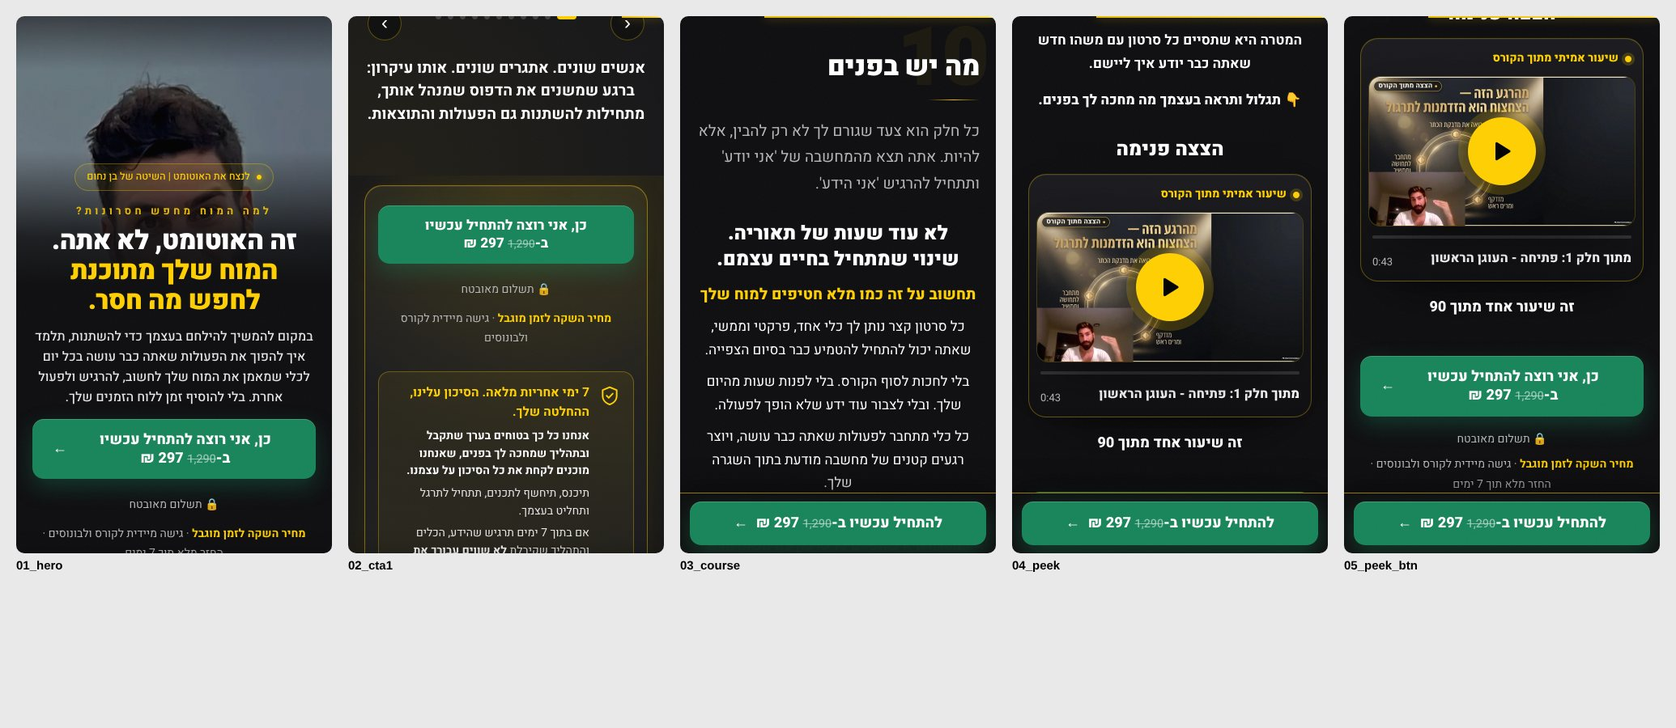
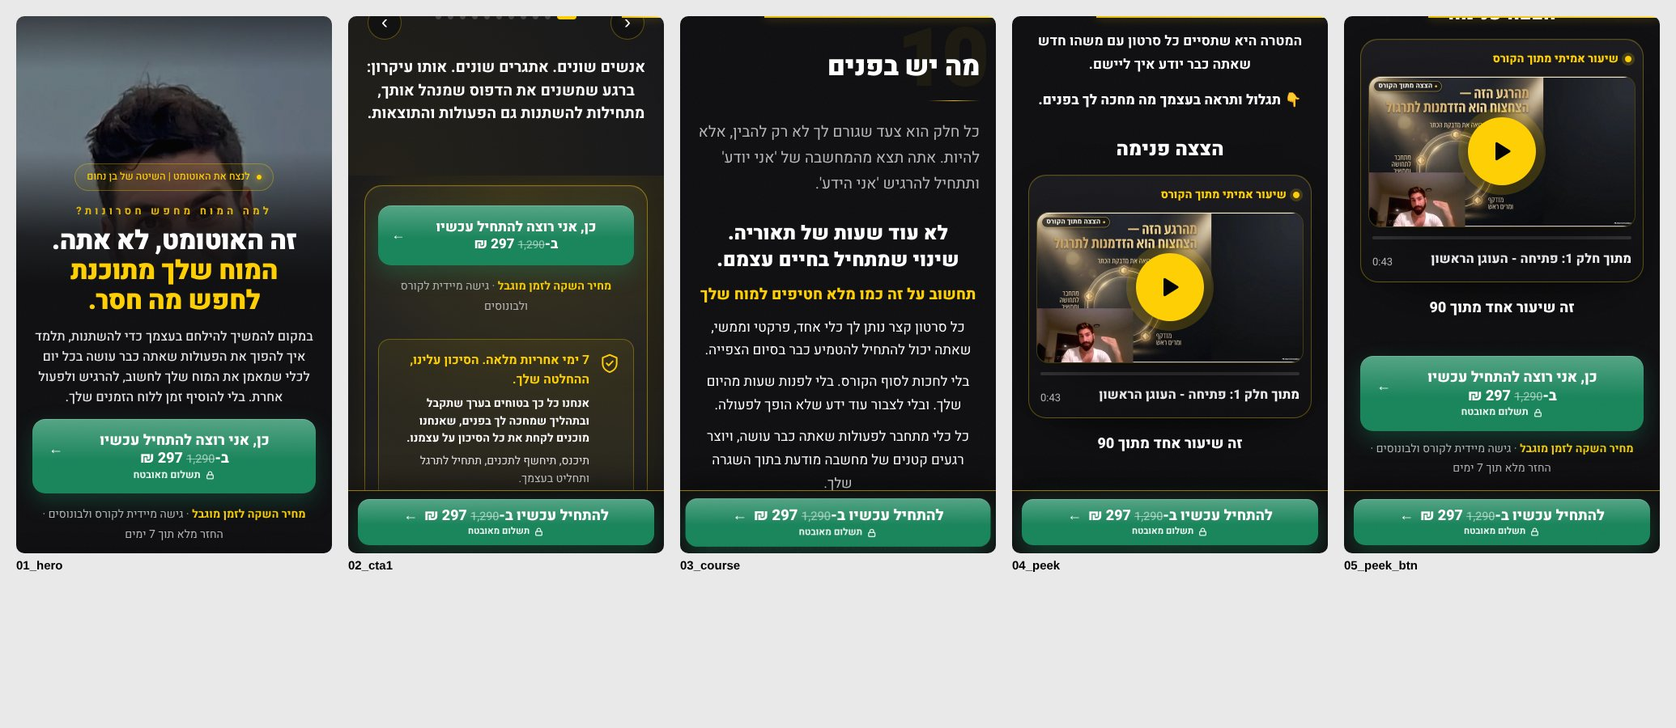
ב85 לפי אישור בן 09:49: a5v6 = a5v4 + ע21 במקום הקיים + כפתורים ירוקים עם רטט כל 2.5 ש' וברק, צמוד לאורך הגלילה; 26/26, CLS 0 - מקומי
Claude-Session: https://claude.ai/code/session_01AWaDsUUa9CSR7XwcRd86aw

diff --git a/claude/b68/s15/t_v6.js b/claude/b68/s15/t_v6.js
@@ -1,4 +1,5 @@
-// ב85: בדיקות a5v6 מול a5v4. שימוש: node t_v6.js http://127.0.0.1:8791/nlp/ [go.html המקומי של main]
+// ב85 (אישור בן 09:49): בדיקות a5v6 מול a5v4. a5v6 = a5v4 + (1) ע21 בין 👇 לבין "הצצה פנימה" (2) כפתורים ירוקים, רטט כל 2.5 ש', ברק, צמוד לאורך הגלילה.
+// שימוש: node t_v6.js http://127.0.0.1:8791/nlp/ [go.html]   (a5v6s = אותה בנייה עם קובץ סיור לבדיקה)
 const {chromium,devices}=require('playwright');const fs=require('fs');const B=process.argv[2],GO=process.argv[3];
 const res=[];const ok=(n,c,e="")=>{res.push(!!c);console.log((c?"PASS ":"FAIL ")+n+(c?"":" "+String(e).slice(0,700)))};
 async function ctx(b,opt={}){const c=await b.newContext({...devices["iPhone 13"],...opt});const ev=[];
@@ -8,58 +9,63 @@ const words=p=>p.evaluate(()=>{const out=[];const w=document.createTreeWalker(do
 const cnt=a=>a.reduce((m,x)=>(m[x]=(m[x]||0)+1,m),{});
 const snap=p=>p.evaluate(()=>({order:[...document.querySelectorAll("header[data-sec],section")].filter(s=>!s.closest(".sp-modal")).map(s=>(s.dataset.name||s.className)+"|"+(s.dataset.stage||"")),
  media:[...document.querySelectorAll("img,video,source")].map(e=>e.getAttribute("src")||e.getAttribute("data-v4src")||e.getAttribute("srcset")||e.getAttribute("poster")||"").filter(Boolean).sort(),
- ctas:[...document.querySelectorAll("a.cta")].map(a=>[a.dataset.cta,(a.getAttribute("href")||"").replace(/a5v[46]/g,"PAGE").replace(/sid=[^&]*/,"sid="),a.hasAttribute("data-checkout")].join("|")),
+ ctas:[...document.querySelectorAll("a.cta")].map(a=>[a.dataset.cta,(a.getAttribute("href")||"").replace(/a5v[46]/g,"PAGE").replace(/sid=[^&]*/,"sid="),a.hasAttribute("data-checkout"),a.innerHTML.replace(/<svg[\s\S]*?<\/svg>/g,"")].join("|")),
  sec:[...document.querySelectorAll("[data-sec]")].map(s=>s.dataset.sec).join(",")}));
 const scrollAll=p=>p.evaluate(async()=>{for(let y=0;y<document.body.scrollHeight;y+=300){scrollTo({top:y,behavior:"instant"});await new Promise(r=>setTimeout(r,60))}});
+const recShk=p=>p.evaluate(()=>{window.__s=[];new MutationObserver(m=>m.forEach(x=>{if(x.target.classList.contains("v6shk"))window.__s.push({k:x.target.dataset.cta,t:Math.round(performance.now()),a:getComputedStyle(x.target).animationName})})).observe(document.body,{subtree:true,attributes:true,attributeFilter:["class"]})});
 (async()=>{const b=await chromium.launch();
- // 1. מבנה, קופי ומדיה מול a5v4
+ // 1. מבנה, קופי ומדיה מול a5v4 - בלי שום הבדל
  {const c=await ctx(b);const p=await c.newPage();await p.goto(B+"a5v4.html?test=1",{waitUntil:"load"});const S4=await snap(p),W4=cnt(await words(p));
   await p.goto(B+"a5v6.html?test=1",{waitUntil:"load"});await p.waitForTimeout(500);const S6=await snap(p),W6=cnt(await words(p));
   ok("same sections, order, numbering and stage tags as a5v4",JSON.stringify(S4.order)===JSON.stringify(S6.order)&&S4.sec===S6.sec,JSON.stringify(S6.order));
-  ok("same media as a5v4",JSON.stringify(S4.media)===JSON.stringify(S6.media));
-  ok("same buttons: data-cta, checkout links and data-checkout identical",JSON.stringify(S4.ctas)===JSON.stringify(S6.ctas),JSON.stringify(S6.ctas));
+  ok("same media as a5v4 (no ע21 file yet)",JSON.stringify(S4.media)===JSON.stringify(S6.media));
+  ok("same buttons: data-cta, checkout links, data-checkout and inner text incl. 'תשלום מאובטח' with the lock",JSON.stringify(S4.ctas)===JSON.stringify(S6.ctas),JSON.stringify(S6.ctas.filter((x,i)=>x!==S4.ctas[i])));
   const keys=[...new Set(Object.keys(W4).concat(Object.keys(W6)))],diff={};keys.forEach(k=>{const d=(W6[k]||0)-(W4[k]||0);if(d)diff[k]=d});
-  ok("copy identical except '🔒' x9 added (lock line under each in-page button; sticky has none, like pr2) and the in-button 'תשלום מאובטח' of the sticky gone",JSON.stringify(diff)===JSON.stringify({"תשלום":-1,"מאובטח":-1,"🔒":9})||JSON.stringify(diff)===JSON.stringify({"🔒":9,"תשלום":-1,"מאובטח":-1}),JSON.stringify(diff));
+  ok("copy identical to a5v4 (word by word)",!Object.keys(diff).length,JSON.stringify(diff));
   ok("noindex + data-variant=a5v6 + view event a5v6",await p.evaluate(()=>!!document.querySelector('meta[name=robots][content*="noindex"]')&&document.documentElement.dataset.variant==="a5v6")&&c.ev.some(e=>e.ev==="view"&&e.variant==="a5v6"));
-  ok("no 13-stage order / transitions / hero loop / strip",await p.evaluate(()=>!document.querySelector(".v5-tr,.v5-loop,.v5-strip,.v5-sound,[data-name='סגירה'],[data-name='הפתרון']")));
-  // אזור הקורס וההצעה בסדר של בן
-  const A=await p.evaluate(()=>{const pos=e=>e?[...document.querySelectorAll("*")].indexOf(e):-1;const sec=document.querySelector('[data-name="מה יש בפנים"]'),bon=document.querySelector('[data-name="בונוסים"]'),off=document.getElementById("offer");
-   const o=[sec.querySelector("h2"),[...sec.querySelectorAll("p")].find(x=>/👇 תגלול ותראה בעצמך/.test(x.textContent)),sec.querySelector(".v4-peek .v4-player"),bon.querySelector("h2"),bon.querySelector("article.bx2"),off.querySelector(".v4-ko-tot"),off.querySelector(".v4-ko-reg s"),off.querySelector(".v4-ko-now b"),off.querySelector('a.cta[data-cta="offer"]')];
-   return {all:o.every(Boolean),inc:o.every((e,i)=>!i||pos(e)>pos(o[i-1])),h2:sec.querySelector("h2").textContent,bh2:bon.querySelector("h2").textContent,cards:bon.querySelectorAll("article.bx2 .bx2-val s").length,tot:off.querySelector(".v4-ko-tot").textContent,now:off.querySelector(".v4-ko-now b").textContent,adj:sec.nextElementSibling===bon&&bon.nextElementSibling===off}});
-  ok("course + offer in Ben's order: מה יש בפנים, 👇, (ע21), ע20, 'וזה עוד לפני שדיברנו...', 5 bonuses with values, total, struck price, 297, button",A.all&&A.inc&&A.adj&&A.bh2==="וזה עוד לפני שדיברנו על כל הבונוסים שמחכים לך במסגרת ההצעה…"&&A.cards===5&&/2,411/.test(A.tot)&&A.now==="297 ₪",JSON.stringify(A));
-  // הכפתורים הירוקים
-  const G=await p.evaluate(()=>[...document.querySelectorAll("a.cta")].map(a=>{const cs=getComputedStyle(a),af=getComputedStyle(a,"::after");return {k:a.dataset.cta,bg:cs.backgroundColor,img:cs.backgroundImage,col:cs.color,rad:cs.borderRadius,fw:cs.fontWeight,inPay:!!a.querySelector(".v4-pay"),after:af.content,lock:a.closest(".sticky,.sp-modal")?null:(a.nextElementSibling&&a.nextElementSibling.matches("p.v6-lock")?a.nextElementSibling.textContent:"")}}));
-  ok("all join buttons green #18845A, white bold text, radius 14, no gold gradient/shine, nothing inside the button",G.length===10&&G.every(x=>x.bg==="rgb(24, 132, 90)"&&x.img==="none"&&x.col==="rgb(255, 255, 255)"&&x.rad==="14px"&&+x.fw>=800&&!x.inPay&&(x.after==="none"||x.after==="normal")),JSON.stringify(G.filter(x=>x.bg!=="rgb(24, 132, 90)"||x.inPay).slice(0,3)));
-  ok("'🔒 תשלום מאובטח' right under every in-page button (stories modal + sticky excluded)",G.filter(x=>x.lock!==null).every(x=>x.lock==="🔒 תשלום מאובטח")&&G.filter(x=>x.lock!==null).length===8,JSON.stringify(G.map(x=>[x.k,x.lock])));
-  ok("shk + ring keyframes identical to pr2",await p.evaluate(()=>{const ks=[...document.styleSheets].flatMap(s=>{try{return [...s.cssRules]}catch(e){return []}}).filter(r=>r.type===7);const n=ks.map(r=>r.name);return n.includes("shk")&&n.includes("ring")}));
+  ok("nothing from a5v5 (stages order, transitions, hero loop, strip)",await p.evaluate(()=>!document.querySelector(".v5-tr,.v5-loop,.v5-strip,.v5-sound,[data-name='סגירה'],[data-name='הפתרון']")));
+  const G=await p.evaluate(()=>[...document.querySelectorAll("a.cta")].map(a=>{const cs=getComputedStyle(a),pay=a.querySelector(".v4-pay");return {k:a.dataset.cta,bg:cs.backgroundColor,img:cs.backgroundImage,col:getComputedStyle(a.querySelector(".ct-t,.st-txt")||a).color,pay:pay?pay.textContent:"",payCol:pay?getComputedStyle(pay).color:""}}));
+  ok("all 10 join buttons incl. sticky green #18845A with white text",G.length===10&&G.every(x=>x.bg==="rgb(24, 132, 90)"&&x.img==="none"&&x.col==="rgb(255, 255, 255)"),JSON.stringify(G.filter(x=>x.bg!=="rgb(24, 132, 90)"||x.col!=="rgb(255, 255, 255)")));
+  ok("'תשלום מאובטח' with the lock stays inside every button, as in a5v4 (light on green)",G.every(x=>x.pay==="תשלום מאובטח"&&/rgba?\(255, 255, 255/.test(x.payCol)),JSON.stringify(G.map(x=>[x.k,x.pay,x.payCol])));
+  ok("button animations use only transform/opacity (v6shk, pulse, shine)",await p.evaluate(()=>{const ks=[...document.styleSheets].flatMap(s=>{try{return [...s.cssRules]}catch(e){return []}}).filter(r=>r.type===7&&/^(v6shk|b45pulse|v4shine2?)$/.test(r.name));
+   return ks.length>=3&&ks.every(k=>[...k.cssRules].every(f=>[...f.style].every(pr=>/^(transform|opacity|translate|rotate|scale)$/.test(pr))))&&!ks.some(k=>k.name==="ring")}));
   await scrollAll(p);await p.waitForTimeout(400);
   const SV=c.ev.filter(e=>e.ev==="section_view"&&e.variant==="a5v6");
-  ok("section_view: 13 stages once each, variant a5v6",SV.length===13&&new Set(SV.map(e=>e.name)).size===13&&SV.every(e=>e.variant==="a5v6"),SV.length);
+  ok("section_view: 13 stages once each, variant a5v6",SV.length===13&&new Set(SV.map(e=>e.name)).size===13,SV.length);
   await c.close();}
- // 2. רטט: הכפתור במסך ואחר כך הכפתור הצמוד; כבוי בהפחתת תנועה ו-?shake=0
- {const c=await ctx(b);const p=await c.newPage();await p.goto(B+"a5v6.html?test=1",{waitUntil:"load"});
-  await p.evaluate(()=>{window.__s=[];new MutationObserver(m=>m.forEach(x=>{if(x.target.classList.contains("shk"))window.__s.push(x.target.dataset.cta+"|"+[...new Set(getComputedStyle(x.target).animationName.split(", "))].join("+"))})).observe(document.body,{subtree:true,attributes:true,attributeFilter:["class"]})});
-  await p.waitForTimeout(4600);let s=await p.evaluate(()=>window.__s);
-  ok("on-screen button shakes with shk+ring after ~4s",s.some(x=>/^hero_main\|shk\+ring$/.test(x)),JSON.stringify(s));
-  await p.evaluate(()=>scrollTo({top:document.body.scrollHeight*0.35,behavior:"instant"}));await p.waitForTimeout(4600);s=await p.evaluate(()=>window.__s);
-  ok("sticky button shakes too when shown",s.some(x=>/^sticky\|/.test(x))&&await p.evaluate(()=>document.getElementById("sticky").classList.contains("on")),JSON.stringify(s));
-  ok("sticky button green, 1:1 with pr2 sticky (no lock line)",await p.evaluate(()=>{const a=document.querySelector(".sticky a.cta");return getComputedStyle(a).backgroundColor==="rgb(24, 132, 90)"&&!document.querySelector(".sticky .v6-lock")}));
+ // 2. ע21 במקום הנכון (גרסת בדיקה עם קובץ)
+ {const c=await ctx(b);const p=await c.newPage();await p.goto(B+"a5v6s.html?test=1",{waitUntil:"load"});
+  const T=await p.evaluate(()=>{const s=document.querySelector('[data-name="מה יש בפנים"]'),t=s.querySelector("figure.v4-tour"),go=[...s.querySelectorAll("p")].find(x=>/^👇 תגלול ותראה בעצמך מה מחכה לך בפנים\.$/.test(x.textContent.trim())),h=[...s.querySelectorAll("h3")].find(x=>x.textContent.trim()==="הצצה פנימה");
+   const all=[...document.querySelectorAll("*")],ix=e=>all.indexOf(e);return {t:!!t,go:!!go,h:!!h,between:!!(t&&go&&h)&&ix(go)<ix(t)&&ix(t)<ix(h),onlyOne:document.querySelectorAll("figure.v4-tour").length}});
+  ok("ע21 exactly between '👇 תגלול ותראה בעצמך...' and 'הצצה פנימה'",T.between&&T.onlyOne===1,JSON.stringify(T));
+  await p.evaluate(()=>{const e=document.querySelector("figure.v4-tour");scrollTo({top:scrollY+e.getBoundingClientRect().top-100,behavior:"instant"})});await p.waitForTimeout(2500);
+  ok("ע21 plays muted inline when on screen (a5v4 tour logic)",await p.evaluate(()=>{const v=document.querySelector("figure.v4-tour video");return !!v&&!v.paused&&v.muted}));
+  await c.close();}
+ // 3. רטט כל 2.5 ש', ברק, כפתור צמוד לאורך הגלילה
+ {const c=await ctx(b);const p=await c.newPage();await p.goto(B+"a5v6.html?test=1",{waitUntil:"load"});await recShk(p);
+  await p.waitForTimeout(5600);let s=await p.evaluate(()=>window.__s);const h=[];s.filter(x=>x.k==="hero_main").sort((a,b)=>a.t-b.t).forEach(x=>{if(!h.length||x.t-h[h.length-1].t>1000)h.push(x)}); /* תחילת כל רטט (אותה הפעלה נרשמת כמה פעמים) */
+  ok("on-screen button shakes (v6shk) every ~2.5s",h.length>=2&&h.every(x=>x.a==="v6shk")&&Math.abs((h[1].t-h[0].t)-2500)<400,JSON.stringify(s));
+  ok("shine on the on-screen button (appears and fades every few seconds)",await p.evaluate(()=>{const a=document.querySelector('[data-cta="hero_main"]'),af=getComputedStyle(a,"::after");return a.classList.contains("v4-shine")&&/v4shine2/.test(af.animationName)&&af.animationIterationCount==="infinite"}));
+  await p.evaluate(()=>scrollTo({top:document.body.scrollHeight*0.3,behavior:"instant"}));await p.waitForTimeout(3000);s=await p.evaluate(()=>window.__s);
+  ok("sticky shown after the hero, shakes and shines",await p.evaluate(()=>{const st=document.getElementById("sticky"),a=st.querySelector("a.cta");return st.classList.contains("on")&&a.classList.contains("v4-shine")&&/v4shine2/.test(getComputedStyle(a,"::after").animationName)})&&s.some(x=>x.k==="sticky"),JSON.stringify(s.slice(-4)));
+  for(const sel of ["#offer .v4-ko-now","section.guar [data-cta=\"final\"]",".ctab [data-cta=\"cta1\"]"]){await p.evaluate(s=>{const e=document.querySelector(s);scrollTo({top:scrollY+e.getBoundingClientRect().top-innerHeight/2,behavior:"instant"})},sel);await p.waitForTimeout(500);
+   ok("sticky stays on at "+sel,await p.evaluate(()=>{const st=document.getElementById("sticky");return st.classList.contains("on")&&st.getAttribute("aria-hidden")==="false"&&st.getBoundingClientRect().top<innerHeight}));}
+  await p.evaluate(()=>scrollTo({top:0,behavior:"instant"}));await p.waitForTimeout(400);
+  ok("sticky hidden again at the top (hero button visible), as in a5v4",await p.evaluate(()=>!document.getElementById("sticky").classList.contains("on")));
   await c.close();
-  for(const [nm,opt,q] of [["reduced motion",{reducedMotion:"reduce"},""],["?shake=0",{},"&shake=0"]]){const c2=await ctx(b,opt);const p2=await c2.newPage();await p2.goto(B+"a5v6.html?test=1"+q,{waitUntil:"load"});
-   await p2.evaluate(()=>{window.__s=0;new MutationObserver(m=>m.forEach(x=>{if(x.target.classList.contains("shk"))window.__s++})).observe(document.body,{subtree:true,attributes:true,attributeFilter:["class"]})});await p2.waitForTimeout(4600);
-   ok(nm+": no shake",await p2.evaluate(()=>window.__s)===0);await c2.close();}}
- // 3. לחיצה: אירוע cta_click והמעבר לסליקה עם v=a5v6
+  for(const [nm,opt,q] of [["reduced motion",{reducedMotion:"reduce"},""],["?shake=0",{},"&shake=0"]]){const c2=await ctx(b,opt);const p2=await c2.newPage();await p2.goto(B+"a5v6.html?test=1"+q,{waitUntil:"load"});await recShk(p2);await p2.waitForTimeout(3000);
+   const r=await p2.evaluate(()=>({n:window.__s.length,shine:getComputedStyle(document.querySelector('[data-cta="hero_main"]'),"::after").animationName}));
+   ok(nm+": no shake"+(nm==="reduced motion"?", no shine":""),r.n===0&&(nm!=="reduced motion"||r.shine==="none"),JSON.stringify(r));await c2.close();}}
+ // 4. לחיצה: cta_click והמעבר לסליקה עם v=a5v6
  {const c=await ctx(b);const p=await c.newPage();await p.goto(B+"a5v6.html?test=1",{waitUntil:"load"});await p.waitForTimeout(400);
   await Promise.all([p.waitForURL(/checkout\.html/,{timeout:8000}).catch(()=>{}),p.click('[data-cta="hero_main"]')]);
-  ok("click → cta_click hero_main and checkout with the page variant",c.ev.some(e=>e.ev==="cta_click"&&e.cta==="hero_main"&&e.variant==="a5v6")&&/checkout\.html/.test(p.url())&&/a5v6/.test(decodeURIComponent(p.url())),p.url());
+  ok("click → cta_click hero_main and checkout with v=a5v6",c.ev.some(e=>e.ev==="cta_click"&&e.cta==="hero_main"&&e.variant==="a5v6")&&/checkout\.html/.test(p.url())&&/a5v6/.test(decodeURIComponent(p.url())),p.url());
   await c.close();}
- // 4. המסך הראשון
+ // 5. המסך הראשון
  for(const [w,h] of [[375,667],[390,844]]){const c=await ctx(b,{viewport:{width:w,height:h}});const p=await c.newPage();await p.goto(B+"a5v6.html?internal=1",{waitUntil:"load"});await p.waitForTimeout(500);
   const f=await p.evaluate(()=>({cta:Math.round(document.querySelector('[data-cta="hero_main"]').getBoundingClientRect().bottom),vh:innerHeight}));
   ok(w+"x"+h+": join button in the first screen",f.cta<=f.vh,JSON.stringify(f));await c.close();}
- // 5. לא ב-go.html
  if(GO)ok("a5v6 not referenced in go.html",!/a5v6/.test(fs.readFileSync(GO,"utf8")));
- // 6. בלי שגיאות JS
  {const c=await ctx(b);const p=await c.newPage();const errs=[];p.on("pageerror",e=>errs.push(e.message));await p.goto(B+"a5v6.html?test=1",{waitUntil:"load"});await scrollAll(p);await p.waitForTimeout(500);
   ok("no JS errors",!errs.length,errs.join(" | "));await c.close();}
  await b.close();console.log("TOTAL",res.length,"FAIL",res.filter(x=>!x).length)})();

diff --git a/claude/b68/s15/build_v6.py b/claude/b68/s15/build_v6.py
@@ -1,71 +1,66 @@
-# ב85 (בן 12.11): a5v5 "נהרס מבחינת המבנה והעיצוב" - חוזרים לגרסה הקודמת. דף בדיקה a5v6 מתוך סקריפט הבנייה של a5v4:
-#   אותו סדר, קופי ועיצוב כמו a5v4 (כולל תגיות המדידה section_view). בלי 13 השלבים, משפטי המעבר, לולאת הפתיחה והרצועה.
-#   אזור הקורס וההצעה כבר בסדר של בן ב-a5v4 (נבדק ב-t_v6.js): מה יש בפנים, 👇, ע21 (כשיגיע), ע20, "וזה עוד לפני שדיברנו...",
-#   הבונוסים עם התכנים והערכים, וסיכום ההצעה (שווי, מחיר מחוק, 297, כפתור).
-#   השינוי היחיד: כל כפתורי ההצטרפות כמו הכפתורים הירוקים של pr2, אחד לאחד - #18845A, רטט + ring באותו מחזור (shk, ring, כל ~4 ש'),
-#   ו"🔒 תשלום מאובטח" מתחת לכפתור (ב-pr2 אין שורה כזו בכפתור הצמוד, ולכן גם כאן לא). data-cta והקישורים לסליקה בלי שינוי.
-# a5v4 ו-a5v5 לא משתנים. הרצה: python3 build_v6.py <שורש ריפו של main> <תיקיית יעד> [--noindex] [--suffix=s]
+# ב85 (בן 12.11, אישור בצילום 09:49 - גובר על הגרסה הקודמת של ההנחיות): a5v6 = a5v4 כמו שהוא, עם 2 שינויים בלבד:
+#   1. ע21 (סרטון הסיור) בדיוק בין "👇 תגלול ותראה בעצמך מה מחכה לך בפנים." לבין "הצצה פנימה" - המקום של inside_tour
+#      שכבר קיים ב-a5v4 (slot t21 ב-slots.json, או --t21=קובץ:פוסטר:רוחב:גובה). בלי קובץ - לא מוצג, כמו ב-a5v4.
+#   2. כל כפתורי ההצטרפות, כולל הכפתור הצמוד, ירוקים כמו ב-pr2 (#18845A), רטט חזק כל 2.5 ש' (keyframes shk של pr2) וברק שמופיע ונעלם
+#      כל כמה שניות (הברק של a5v4, עכשיו גם בכפתור הצמוד). הכפתור הצמוד נשאר מוצג לאורך כל הגלילה אחרי כפתור הפתיחה.
+#      שורת "תשלום מאובטח" עם המנעול נשארת בתוך הכפתור כמו ב-a5v4. רק transform/opacity (בלי ה-ring של pr2, שמנפיש צל). כבוי בהפחתת תנועה.
+#   אזור הקורס והבונוסים - בלי שינוי. a5v4 ו-a5v5 לא משתנים.
+# הרצה: python3 build_v6.py <שורש ריפו של main> <תיקיית יעד> [--noindex] [--suffix=s] [--t21=src:poster:w:h]
 import os, sys, re
 HERE = os.path.dirname(os.path.abspath(__file__))
 sys.path.insert(0, HERE)
 import build_v4 as B4
 import stages as STG
 
-PAY = re.compile(r'<span class="v4-pay"><svg class="v4-li"[^>]*>.*?</svg>תשלום מאובטח</span>', re.S)
-LOCK = '<p class="v6-lock">🔒 תשלום מאובטח</p>'
-
 CSS = """
-/* ב85: כפתורי ההצטרפות כמו ב-pr2, אחד לאחד */
-body a.cta{display:flex;align-items:center;justify-content:center;gap:10px;flex-wrap:nowrap;width:100%;max-width:470px;min-height:60px;margin-inline:auto;
-  padding:14px 22px;border:0;border-radius:14px;background:#18845A;background-image:none;color:#fff;font-weight:800;font-size:18px;line-height:1.3;
-  text-align:center;text-decoration:none;text-shadow:none;letter-spacing:normal;filter:none;overflow:visible;
-  box-shadow:0 10px 26px rgba(24,132,90,.34),inset 0 1px 0 rgba(255,255,255,.18);transition:background-color .2s,transform .2s;-webkit-tap-highlight-color:transparent}
-body a.cta:hover{background:#136B49;transform:none;filter:none;box-shadow:0 10px 26px rgba(24,132,90,.34),inset 0 1px 0 rgba(255,255,255,.18)}
-body a.cta:active{transform:translateY(1px)}
-body a.cta::before,body a.cta::after{display:none;content:none;animation:none}
-body a.cta.pulse1{animation:none}
-body a.cta,body a.cta *{color:#fff}
-body a.cta .ct-t,body a.cta .st-txt{color:#fff;font-weight:800}
+/* ב85: כפתורי ההצטרפות ירוקים כמו ב-pr2. הצורה, השורה "תשלום מאובטח" והברק - של a5v4 */
+body a.cta{background:#18845A;background-image:none;color:#fff;filter:none;
+  box-shadow:0 10px 26px rgba(24,132,90,.34),inset 0 1px 0 rgba(255,255,255,.18)}
+body a.cta:hover,body a.cta:focus-visible{background:#136B49;filter:none;box-shadow:0 10px 26px rgba(24,132,90,.34),inset 0 1px 0 rgba(255,255,255,.18)}
+body a.cta .ct-t,body a.cta .st-txt,body a.cta > span{color:#fff}
 body a.cta s.was{color:rgba(255,255,255,.72);text-decoration-color:rgba(255,255,255,.72)}
-html .sticky a.cta{min-height:54px;font-size:18px;max-width:420px;margin-inline:auto;border-radius:14px;padding:12px 18px;box-shadow:0 10px 26px rgba(24,132,90,.34),inset 0 1px 0 rgba(255,255,255,.18)}
-@keyframes shk{0%,100%{transform:translate3d(0,0,0)}10%{transform:translate3d(-7px,0,0) rotate(-1.6deg)}20%{transform:translate3d(7px,0,0) rotate(1.6deg)}30%{transform:translate3d(-6px,0,0) rotate(-1.2deg)}40%{transform:translate3d(6px,0,0) rotate(1.2deg)}50%{transform:translate3d(-3px,0,0)}60%{transform:translate3d(3px,0,0)}70%{transform:translate3d(0,0,0)}}
-@keyframes ring{0%{box-shadow:0 10px 26px rgba(24,132,90,.34),0 0 0 0 rgba(233,196,126,.75)}100%{box-shadow:0 10px 26px rgba(24,132,90,.34),0 0 0 16px rgba(233,196,126,0)}}
-body a.cta.shk{animation:shk .72s cubic-bezier(.36,.07,.19,.97) 1,ring .9s ease-out 1}
-@media (prefers-reduced-motion:reduce){body a.cta.shk{animation:none}}
-html body p.v6-lock{margin:8px auto 0;font-size:14px;line-height:1.4;font-weight:400;color:var(--muted,#B8B8B8);text-align:center;max-width:none}
+body a.cta .v4-pay{color:rgba(255,255,255,.9)}
+/* overflow:clip ולא hidden: עם hidden הברק (::after שזז מחוץ לכפתור) יוצר גלילה פנימית בכפתור הצמוד, והתוכן קפץ הצידה (CLS 0.015-0.024) */
+body a.cta{overflow:hidden;overflow:clip}
+html .sticky a.cta{background:#18845A;box-shadow:0 10px 26px rgba(24,132,90,.34),inset 0 1px 0 rgba(255,255,255,.18)}
+/* רטט חזק (ה-keyframes של pr2, transform בלבד) */
+@keyframes v6shk{0%,100%{transform:translate3d(0,0,0)}10%{transform:translate3d(-7px,0,0) rotate(-1.6deg)}20%{transform:translate3d(7px,0,0) rotate(1.6deg)}30%{transform:translate3d(-6px,0,0) rotate(-1.2deg)}40%{transform:translate3d(6px,0,0) rotate(1.2deg)}50%{transform:translate3d(-3px,0,0)}60%{transform:translate3d(3px,0,0)}70%{transform:translate3d(0,0,0)}}
+body a.cta.v6shk{animation:v6shk .72s cubic-bezier(.36,.07,.19,.97) 1}
+@media (prefers-reduced-motion:reduce){body a.cta.v6shk{animation:none}}
 """
 
-JS = r"""<script>/* ב85: רטט כמו ב-pr2 - כל ~4 ש', הכפתור הבולט במסך (90%+) והכפתור הצמוד כשהוא מוצג. ויזואלי בלבד. כבוי בהפחתת תנועה / ?shake=0 */
+JS = r"""<script>/* ב85: רטט חזק כל 2.5 ש' - הכפתור הבולט במסך (90%+) והכפתור הצמוד; ברק גם בכפתור הצמוד; הכפתור הצמוד נשאר אחרי כפתור הפתיחה. כבוי בהפחתת תנועה / ?shake=0 */
 (function(){var q=new URLSearchParams(location.search),RM=matchMedia("(prefers-reduced-motion: reduce)").matches;
- if(!("IntersectionObserver" in window)||RM||q.get("shake")==="0")return;
- var st=document.getElementById("sticky"),sa=st&&st.querySelector("a.cta"),sp=document.getElementById("spModal");
+ var st=document.getElementById("sticky"),sa=st&&st.querySelector("a.cta"),sp=document.getElementById("spModal"),hc=document.querySelector('[data-sec="1"] [data-cta="hero_main"]');
+ /* הכפתור הצמוד: מוצג מרגע שכפתור הפתיחה יצא מהמסך, ולא נעלם באזורי הקנייה */
+ if(st&&hc){var keep=function(){if(hc.getBoundingClientRect().bottom<0&&!st.classList.contains("on")){st.classList.add("on");st.setAttribute("aria-hidden","false");}};
+  new MutationObserver(keep).observe(st,{attributes:true,attributeFilter:["class"]});addEventListener("scroll",keep,{passive:true});keep();}
+ if(RM)return;
+ if(sa)sa.classList.add("v4-shine");
+ if(!("IntersectionObserver" in window)||q.get("shake")==="0")return;
  var inPage=[].slice.call(document.querySelectorAll("a.cta")).filter(function(b){return !b.closest(".sticky,.sp-modal");}),vis=new Map();
  var sio=new IntersectionObserver(function(es){es.forEach(function(x){vis.set(x.target,x.intersectionRatio);});},{threshold:[0,.5,.9,1]});
  inPage.forEach(function(b){sio.observe(b);});
- function shake(b){b.classList.remove("shk");void b.offsetWidth;b.classList.add("shk");b.addEventListener("animationend",function e(ev){if(ev.animationName==="ring"){b.classList.remove("shk");b.removeEventListener("animationend",e);}});}
+ function shake(b){b.classList.remove("v6shk");void b.offsetWidth;b.classList.add("v6shk");b.addEventListener("animationend",function e(ev){if(ev.animationName==="v6shk"){b.classList.remove("v6shk");b.removeEventListener("animationend",e);}});}
  setInterval(function(){if(document.visibilityState!=="visible"||(sp&&!sp.hidden))return;
   var best=null,br=.9;inPage.forEach(function(b){var r=vis.get(b)||0;if(r>=br){br=r;best=b;}});
   if(best)shake(best);
-  if(st&&sa&&st.classList.contains("on"))shake(sa);},4000);
+  if(st&&sa&&st.classList.contains("on"))shake(sa);},2500);
 })();</script>"""
 
 def green(p):
-    n = len(re.findall(r'<a class="cta"[^>]*data-cta=', p))
-    p, k = PAY.subn("", p)
-    assert k == n, (k, n)  # כל כפתור הצטרפות הכיל "תשלום מאובטח" בתוכו - עובר אל מתחת לכפתור
-    out, i, added = [], 0, 0
-    for m in re.finditer(r'<a class="cta"[^>]*data-cta="([^"]+)"[^>]*>.*?</a>', p, re.S):
-        out.append(p[i:m.end()]); i = m.end()
-        before = p[max(0, m.start() - 300):m.start()]
-        if m.group(1) == "sticky": continue
-        out.append(LOCK); added += 1
-    out.append(p[i:]); p = "".join(out)
-    assert added == n - 1, (added, n)
     p = p.replace("</head>", "<style>" + CSS + "</style>\n</head>", 1)
     i = p.rindex("</body>"); p = p[:i] + JS + p[i:]
     return p
 
+def t21():
+    a = B4.ARG.get("t21")
+    if not a: return
+    src, poster, w, h = a.split(":")
+    B4.SLOTS["t21"].update(src=src, poster=poster, w=int(w), h=int(h))
+
 def build():
+    t21()
     p = B4.v4(B4.build_v3.build_a5(), "a5", "a5v3", "a5v6")
     p = STG.tag_a5v4(p)
     p = green(p)
@@ -76,4 +71,4 @@ if __name__ == "__main__":
     os.makedirs(B4.OUT, exist_ok=True)
     p = build()
     open(os.path.join(B4.OUT, "a5v6" + B4.SUFFIX + ".html"), "w", encoding="utf8").write(p)
-    print("a5v6", len(p), "ctas:", re.findall(r'<a class="cta"[^>]*data-cta="([^"]+)"', p), "locks:", p.count('class="v6-lock"'))
+    print("a5v6", len(p), "ctas:", len(re.findall(r'<a class="cta"[^>]*data-cta=', p)), "tour:", 'data-v4tour' in p)

diff --git a/claude/b85/README.md b/claude/b85/README.md
@@ -1,22 +1,21 @@
-# ב85 - a5v6 (בן 12.11: חוזרים לגרסה הקודמת)
+# ב85 - a5v6 (בן 12.11, אישור בצילום 09:49 - גובר על ההנחיות הקודמות)
 
-`claude/b68/s15/build_v6.py` בונה את a5v6 מתוך הבנייה של a5v4 (אותה פונקציה, v=a5v6), ומוסיף רק את שכבת הכפתורים. a5v4 ו-a5v5 לא משתנים.
+`claude/b68/s15/build_v6.py` בונה את a5v6 מתוך הבנייה של a5v4 (אותה פונקציה, v=a5v6). a5v4 ו-a5v5 לא משתנים.
 
 ## כל ההבדלים מול a5v4
 1. data-variant=a5v6 (מדידה ומעבר לסליקה עם v=a5v6). noindex, לא ב-go.html ולא בניסוי.
-2. כל 10 כפתורי ההצטרפות (hero_main, cta1, know, cta2, peek, offer, cta3, final, sticky, stories) כמו ב-pr2:
-   - רקע #18845A (בריחוף #136B49), טקסט לבן מודגש 800, 18px, פינות 14px, אותו צל. בלי הזהב, הברק (shine) והפעימה (pulse1) של a5v4.
-   - רטט + ring כמו ב-pr2: אותם keyframes (shk 0.72s, ring 0.9s), כל ~4 שניות, הכפתור הבולט במסך (90%+) והכפתור הצמוד כשהוא מוצג.
-     כבוי בהפחתת תנועה וב-?shake=0, ולא בזמן שסרטוני ההמלצות פתוחים.
-   - "תשלום מאובטח" עם המנעול יצא מתוך הכפתור, ומתחת לכל כפתור בדף יש "🔒 תשלום מאובטח" (8 כפתורים + כפתור ההמלצות = 9).
-     בכפתור הצמוד אין שורה כזו, כמו ב-pr2.
-3. אין שום הבדל אחר: אותו סדר וקופי, אותן תמונות וסרטונים, אותם data-cta וקישורים לסליקה, אותן תגיות section_view.
-
-## אזור הקורס וההצעה
-כבר בסדר של בן ב-a5v4 ונשאר כך: "מה יש בפנים" → "👇 תגלול ותראה בעצמך..." → (סיור ע21 כשיגיע) → ההצצה לשיעור ע20 →
-"וזה עוד לפני שדיברנו על כל הבונוסים שמחכים לך…" → 5 הבונוסים עם התכנים והשווי → סיכום ההצעה (שווי כולל 2,411, "מחיר כולל הבונוסים 2,411" מחוק, 297, כפתור).
+2. ע21 (סרטון הסיור): המקום כבר קיים ב-a5v4 בדיוק בין "👇 תגלול ותראה בעצמך מה מחכה לך בפנים." לבין "הצצה פנימה".
+   הקובץ עוד לא הגיע, ולכן הוא לא מוצג (כמו ב-a5v4). כשיגיע: `--t21=src:poster:w:h` (נבדק עם קובץ בדיקה, צילום 10).
+3. כל 10 כפתורי ההצטרפות, כולל הכפתור הצמוד:
+   - ירוקים כמו ב-pr2 (#18845A, בריחוף #136B49), טקסט לבן. הצורה, הטקסט והשורה "תשלום מאובטח" עם המנעול בתוך הכפתור - כמו ב-a5v4.
+   - רטט חזק כל 2.5 שניות (ה-keyframes של pr2, transform בלבד): הכפתור הבולט במסך והכפתור הצמוד. בלי ה-ring של pr2, כי הוא מנפיש צל.
+   - ברק שמופיע ונעלם כל כמה שניות: הברק של a5v4, עכשיו גם בכפתור הצמוד.
+   - הכפתור הצמוד מוצג מרגע שכפתור הפתיחה יוצא מהמסך ונשאר לאורך כל הגלילה (ב-a5v4 הוא נעלם ליד ההצעה וליד הכפתור האחרון).
+   - הכול כבוי בהפחתת תנועה; ?shake=0 מכבה את הרטט.
+   - overflow:clip בכפתורים (במקום hidden), כדי שהברק לא ייצור גלילה פנימית בכפתור הצמוד (נמדדה קפיצה בפריסה לפני התיקון).
+4. אין שום הבדל אחר: אותו סדר וקופי (נבדק מילה במילה), אותן תמונות, אותם data-cta וקישורים לסליקה, אותן תגיות section_view.
 
 ## קבלה
-- `t_v6.js` 21/21 (מבנה/קופי/מדיה מול a5v4, כפתורים, רטט, הפחתת תנועה, ?shake=0, הכפתור הצמוד, לחיצה וסליקה, מסך ראשון 375 ו-390, go.html, שגיאות).
-- LCP (slow4g, חציון 7): a5v4 948ms, a5v6 956ms (הבדל בגבול הרעש). CLS 0 בשניהם.
+- `t_v6.js` 26/26.
+- LCP (slow4g, חציון 7, שתי סדרות): a5v6 924/960ms, a5v4 968/952ms. CLS 0 בשניהם (וגם 0 ב-20 ריצות עם רישום מקורות).
 - צילומים 390x844: `ב85_a5v6_A.jpg`, `ב85_a5v6_B.jpg`.
